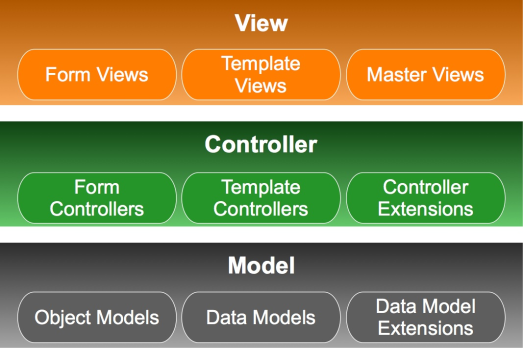
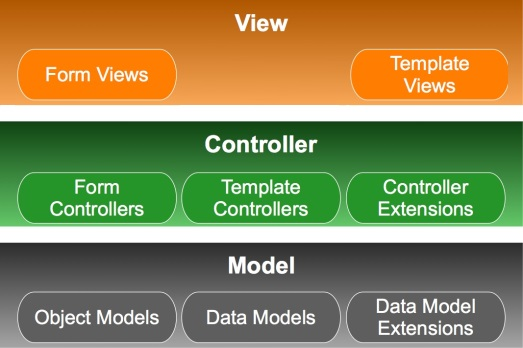
Merge pull request #522 from phoenix-temenos/HPHX-17429
17429

diff --git a/source/docs/documentation/Iris/voltmx_ref_arch_api/Content/A_Deeper_Look_at_VoltMX_Reference_Architecture.md b/source/docs/documentation/Iris/voltmx_ref_arch_api/Content/A_Deeper_Look_at_VoltMX_Reference_Architecture.md
@@ -38,30 +38,25 @@ Your code accesses these objects by using appropriate names.
 Views
 -----
 
-Views in an app can be forms, templates, or masters. Apps under Volt MX Reference Architecture must have at least one form that functions as a View. More typically, apps have several forms, each one containing a variety of widgets for displaying information and for enabling user interaction. You create your app's forms in Volt MX Iris and add widgets as needed.
+Views in an app are provided by forms. Forms can be built using templates or components. Apps under Volt MX Reference Architecture must have at least one form that functions as a View. More typically, apps have several forms, each one containing a variety of widgets for displaying information and for enabling user interaction. You create your app’s forms in Volt MX Iris and add widgets as needed. 
 
-Templates enable you to provide your app with a uniform user interface. For instance, you can create a template for all of the buttons your app displays to make them all have the same colors, fonts, and shapes. If you make changes to the template, the changes propagate to all of the buttons that you have applied the template to.
+Templates enable you to provide your app with a uniform user interface. For instance, you can create a template for all of the buttons your app displays to make them all have the same colors, fonts, and shapes. If you make changes to the template, the changes propagate to all of the buttons that you have applied the template to. 
 
-Masters are a type of master form. In some ways they are similar to templates in that they provide a rapid way to add a standard user interface element to your app. However, masters are a forms. Therefore, you can encapsulate more into a master than you can encapsulate into a template. When building masters, you can add in forms, widgets, templates, code, and even other masters. This enables you to build highly complex standard components that you can just drop into as many projects as you want.
+Views are never global under Volt MX Reference Architecture . They can only be accessed by their Controllers. In fact, each View is stored in a member variable in the class of its Controller. 
 
-For example, you could create a master that provides all of the user interface elements and code needed to log into backend services that your company offers. Once this master is built and tested, you can easily add it to any app that you create, thus saving yourself large amounts of time.
-
-Views are never global under Volt MX Reference Architecture . They can only be accessed by their Controllers. In fact, each View is stored in a member variable in the class of its Controller.
-
-Volt MX  Iris stores the forms for your Views in the Forms folder under the respective channels that you're developing your app for. So, for instance, forms for mobile devices are stored in a Forms folder under the Mobile channel.  
+Volt MX Iris stores the forms for your Views in the Forms folder under the respective channels that you’re developing your app for. So, for instance, forms for mobile devices are stored in a Forms folder under the Mobile channel.
 
 Controllers
 -----------
 
-Every View requires an associated Controller. Therefore, your app's code can have form Controllers, master Controllers, and template Controllers in it.  They are all implemented as JavaScript modules. Controllers contain the business logic of an app. They communicate with the data Model objects to retrieve, update, and process the app's data. Controller can communicate with as many Models as needed.
+Every View requires an associated Controller. Therefore, your app’s code can have form Controllers, component Controllers, and template Controllers in it.  They are all implemented as JavaScript modules. Controllers contain the business logic of an app. They communicate with the data Model objects to retrieve, update, and process the app’s data. Controller can communicate with as many Models as needed. 
 
-When Controllers operate on an app's data, they also send the data to the View to be displayed in the corresponding form, template, or master. In this way, it updates the user interface whenever there is a change in the displayed data from the Model.
+When Controllers operate on an app’s data, they also send the data to the View to be displayed in the corresponding form, template, or component. In this way, it updates the user interface whenever there is a change in the displayed data from the Model. 
 
-In addition to form Controllers and template Controllers, VoltMXReference Architecture also provides Controller extensions. You can write Controller extensions in JavaScript modules to provide specialized or enhanced functionality for components. For example, suppose that you create a master that encapsulates all of the functionality for logging onto your backend database. Imagine that you are creating a new app and you drop the login master into your new app. Now you want to add the ability to log in using Facebook. With a Controller extension, you can add the Facebook login functionality to your login master without changing the base login master itself. You just add in some new UI elements and add the new functionality for logging in with Facebook to a Controller extension that you write. That way, none of your new code impacts the standard login master that you've created and that you use in all of your apps. Each individual app can enhance the standard login master in any way you need without you having to modify the standard login master itself.
+In addition to form Controllers and template Controllers, Volt MX Reference Architecture also provides Controller extensions. You can write Controller extensions in JavaScript modules to provide specialized or enhanced functionality for components. For example, suppose that you create a component that encapsulates all of the functionality for logging onto your backend database. Imagine that you are creating a new app and you drop the login component into your new app. Now you want to add the ability to log in using Facebook. With a Controller extension, you can add the Facebook login functionality to your login componen without changing the base login componen itself. You just add in some new UI elements and add the new functionality for logging in with Facebook to a Controller extension that you write. That way, none of your new code impacts the standard login component that you’ve created and that you use in all of your apps. Each individual app can enhance the standard login component in any way you need without you having to modify the standard login component itself. 
 
-Controllers for Views are typically stored together with their forms, as the following figure shows.
-
-However, shared Controllers are stored in the `Shared` folder, which appears after you create a shared Controller. When it is empty, the `Shared` folder is not shown.
+ (There is no figure in the doc so hat line has to go) 
+ (This doesn't exist in 8.4 or 9, it's a Look properties setting, so this has to go) 
 
 Models
 ------

diff --git a/source/docs/documentation/Iris/voltmx_ref_arch_api/Content/VoltMX_Reference_Architecture_Features.md b/source/docs/documentation/Iris/voltmx_ref_arch_api/Content/VoltMX_Reference_Architecture_Features.md
@@ -35,9 +35,9 @@ The Controller responds to user actions that it receives from its associated Vie
 
 All Controllers have a member variable named `View` that contains the View for that specific Controller. Views are only accessible from within their corresponding Controllers by using the statement `this.View`.
 
-Each form, template, or master in an app has an associated Controller and only the individual Controllers can directly access their own Views. However, when needed, Controllers can invoke their parent Controller's methods by calling the `executeOnParent` function. This provides both a clean separation of the layers in the hierarchy of Views and a solid encapsulation of each View's functionality.
+Each form, template, or component in an app has an associated Controller and only the individual Controllers can directly access their own Views. However, when needed, Controllers can invoke their parent Controller’s methods by calling the executeOnParent function. This provides both a clean separation of the layers in the hierarchy of Views and a solid encapsulation of each View’s functionality. 
 
-> **_Important:_**  Masters is a feature that was deprecated in 7.x and removed in 9.x
+With all references to masters removed from the guide, there is no need for this note.
 
 Controllers can also retrieve information from Models, display it in Views, and enable the user interact with it. Based on the user's input, the Controller can send notifications to the Model, which saves the changes onto the data source.
 
@@ -169,7 +169,7 @@ Volt MX  Reference Architecture also supports module dependencies. So if your ap
 Define Namespaces in Apps
 -------------------------
 
-In addition, Volt MX Reference Architecture lets you define namspaces in your apps for the masters that you create. Each fragment inside the namspace's name is a folder name. For example, suppose you create the namespace mycompany.ui in your app. Further imagine that the mycompany.ui namespace contains a file called `ChartControll.js`. The path to the file would then be `mycompany\ui\ChartControl.js`. The name for this file in RequireJS notation would be `"mycompany/ui/chartcontrol"`. To load this file, your app would need code similar to the following example.
+In addition, Volt MX Reference Architecture lets you define namspaces in your apps for the component that you create. Each fragment inside the namspace’s name is a folder name. For example, suppose you create the namespace mycompany.ui in your app. Further imagine that the mycompany.ui namespace contains a file called `ChartControll.js`. The path to the file would then be `mycompany\ui\ChartControl.js`. The name for this file in RequireJS notation would be `"mycompany/ui/chartcontrol"`. To load this file, your app would need code similar to the following example.
 
 {% highlight voltMx %}require(
     [“mycompany/ui/chartcontrol”], 

diff --git a/source/docs/documentation/Iris/voltmx_ref_arch_api/Content/Create_an_App_with_VoltMX_Reference_Architecture.md b/source/docs/documentation/Iris/voltmx_ref_arch_api/Content/Create_an_App_with_VoltMX_Reference_Architecture.md
@@ -226,7 +226,7 @@ You can specify the read-only files from the **projectProperties.json** file. In
 
 ### Build the App's User Interface
 
-Your client app's user interface displays one or more screens, also called views. Views can be forms, templates, or masters. Every view must have at least one of these. More typically, a view requires multiple forms, templates, or masters. The process of creating views is described in the [VoltMX Iris User Guide]({{ site.baseurl }}/docs/documentation/Iris/iris_user_guide/Content/Adding_Forms_to_a_New_Application.html).
+Your client app’s user interface displays one or more screens, also called views. Views can be forms or templates. Every view must have at least one of these. More typically, a view requires multiple forms or templates. The process of creating views is described in the [VoltMX Iris User Guide]({{ site.baseurl }}/docs/documentation/Iris/iris_user_guide/Content/Adding_Forms_to_a_New_Application.html).
 
 After creating at least one screen for your app using forms, you can add widgets to the forms. Widgets provide your app with the user interface elements that it needs. These include buttons, menus, text labels, calendars, and more. They also give your app access to the functionality of the user's device through the use of a camera widget, a phone, widget, and so forth. The process of populating your app's forms with widgets is presented in the [VoltMX Iris User Guide]({{ site.baseurl }}/docs/documentation/Iris/iris_user_guide/Content/PopulatingWidgets.html).
 
